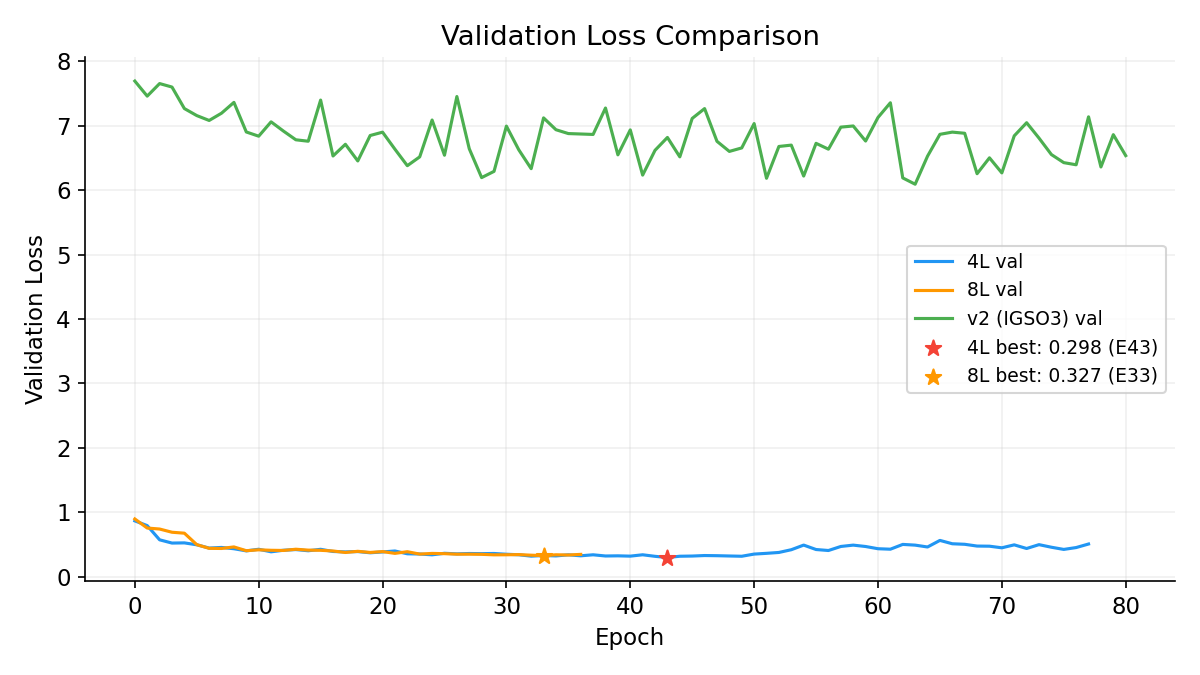
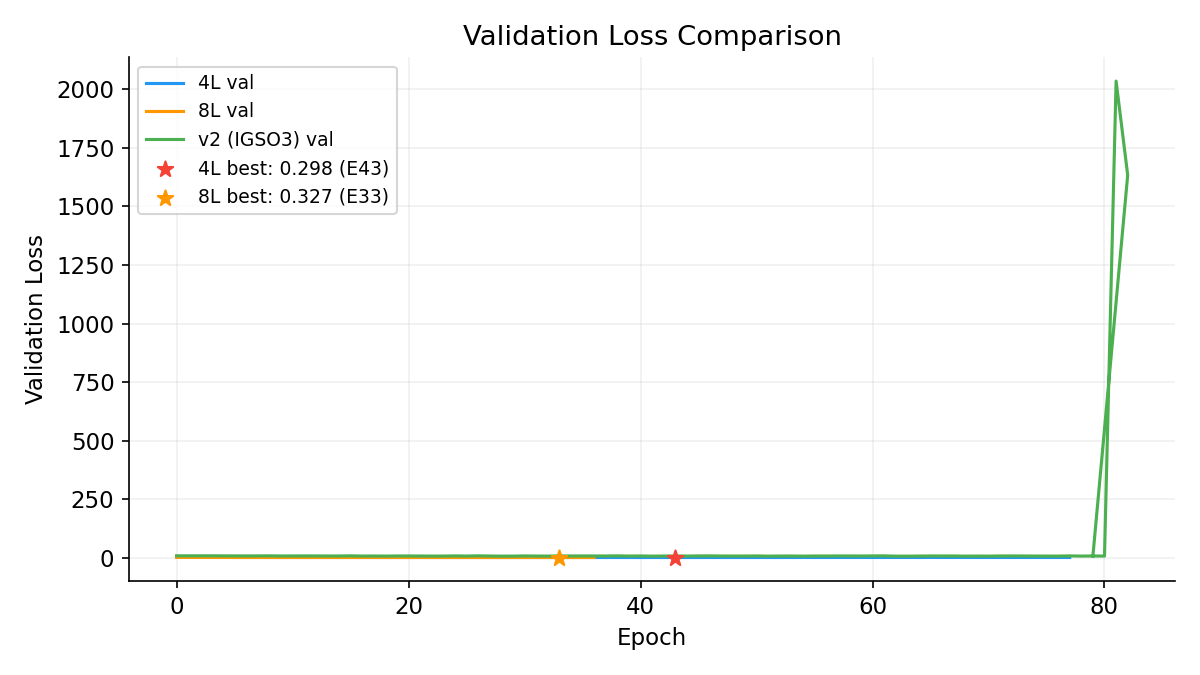
Update: v2 E79 RMSD=4.50! cosine LR stable, 0.02A from v1

diff --git a/minifold.html b/minifold.html
@@ -239,7 +239,7 @@
         <p style="margin:0; font-size:13px; color:var(--text-secondary)">~14.4M params &middot; Wider MLPs throughout<br>
         IGSO3 rotation noise + score matching loss<br>
         Proper SO(3) reverse SDE for sampling<br>
-        Status: E80, RMSD=4.53-4.60, rot_err=46-47, val best=6.36 (E78), 2xA40</p>
+        Status: E79, RMSD=4.50, rot_err=46.0, cosine LR (post-E81 explosion fix), 2xA40</p>
       </div>
     </div>
 
